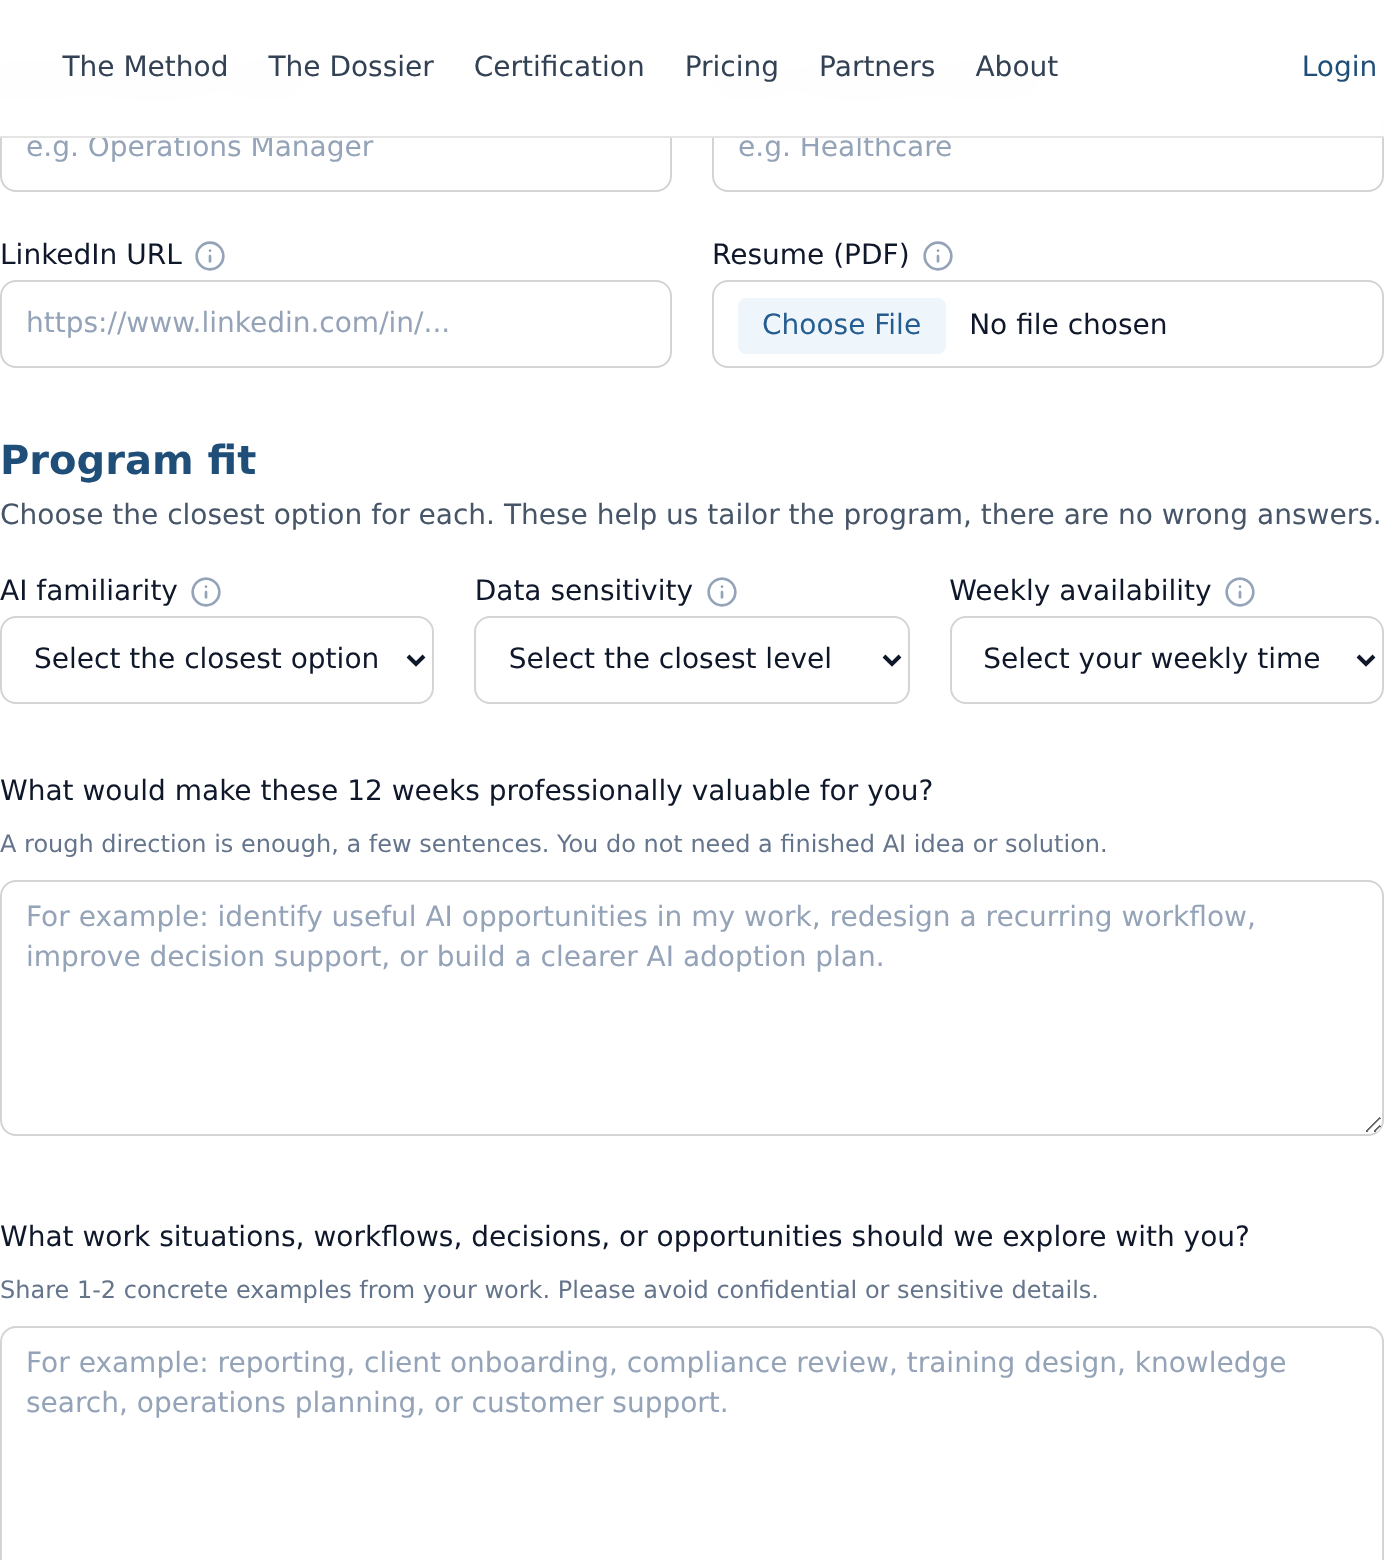
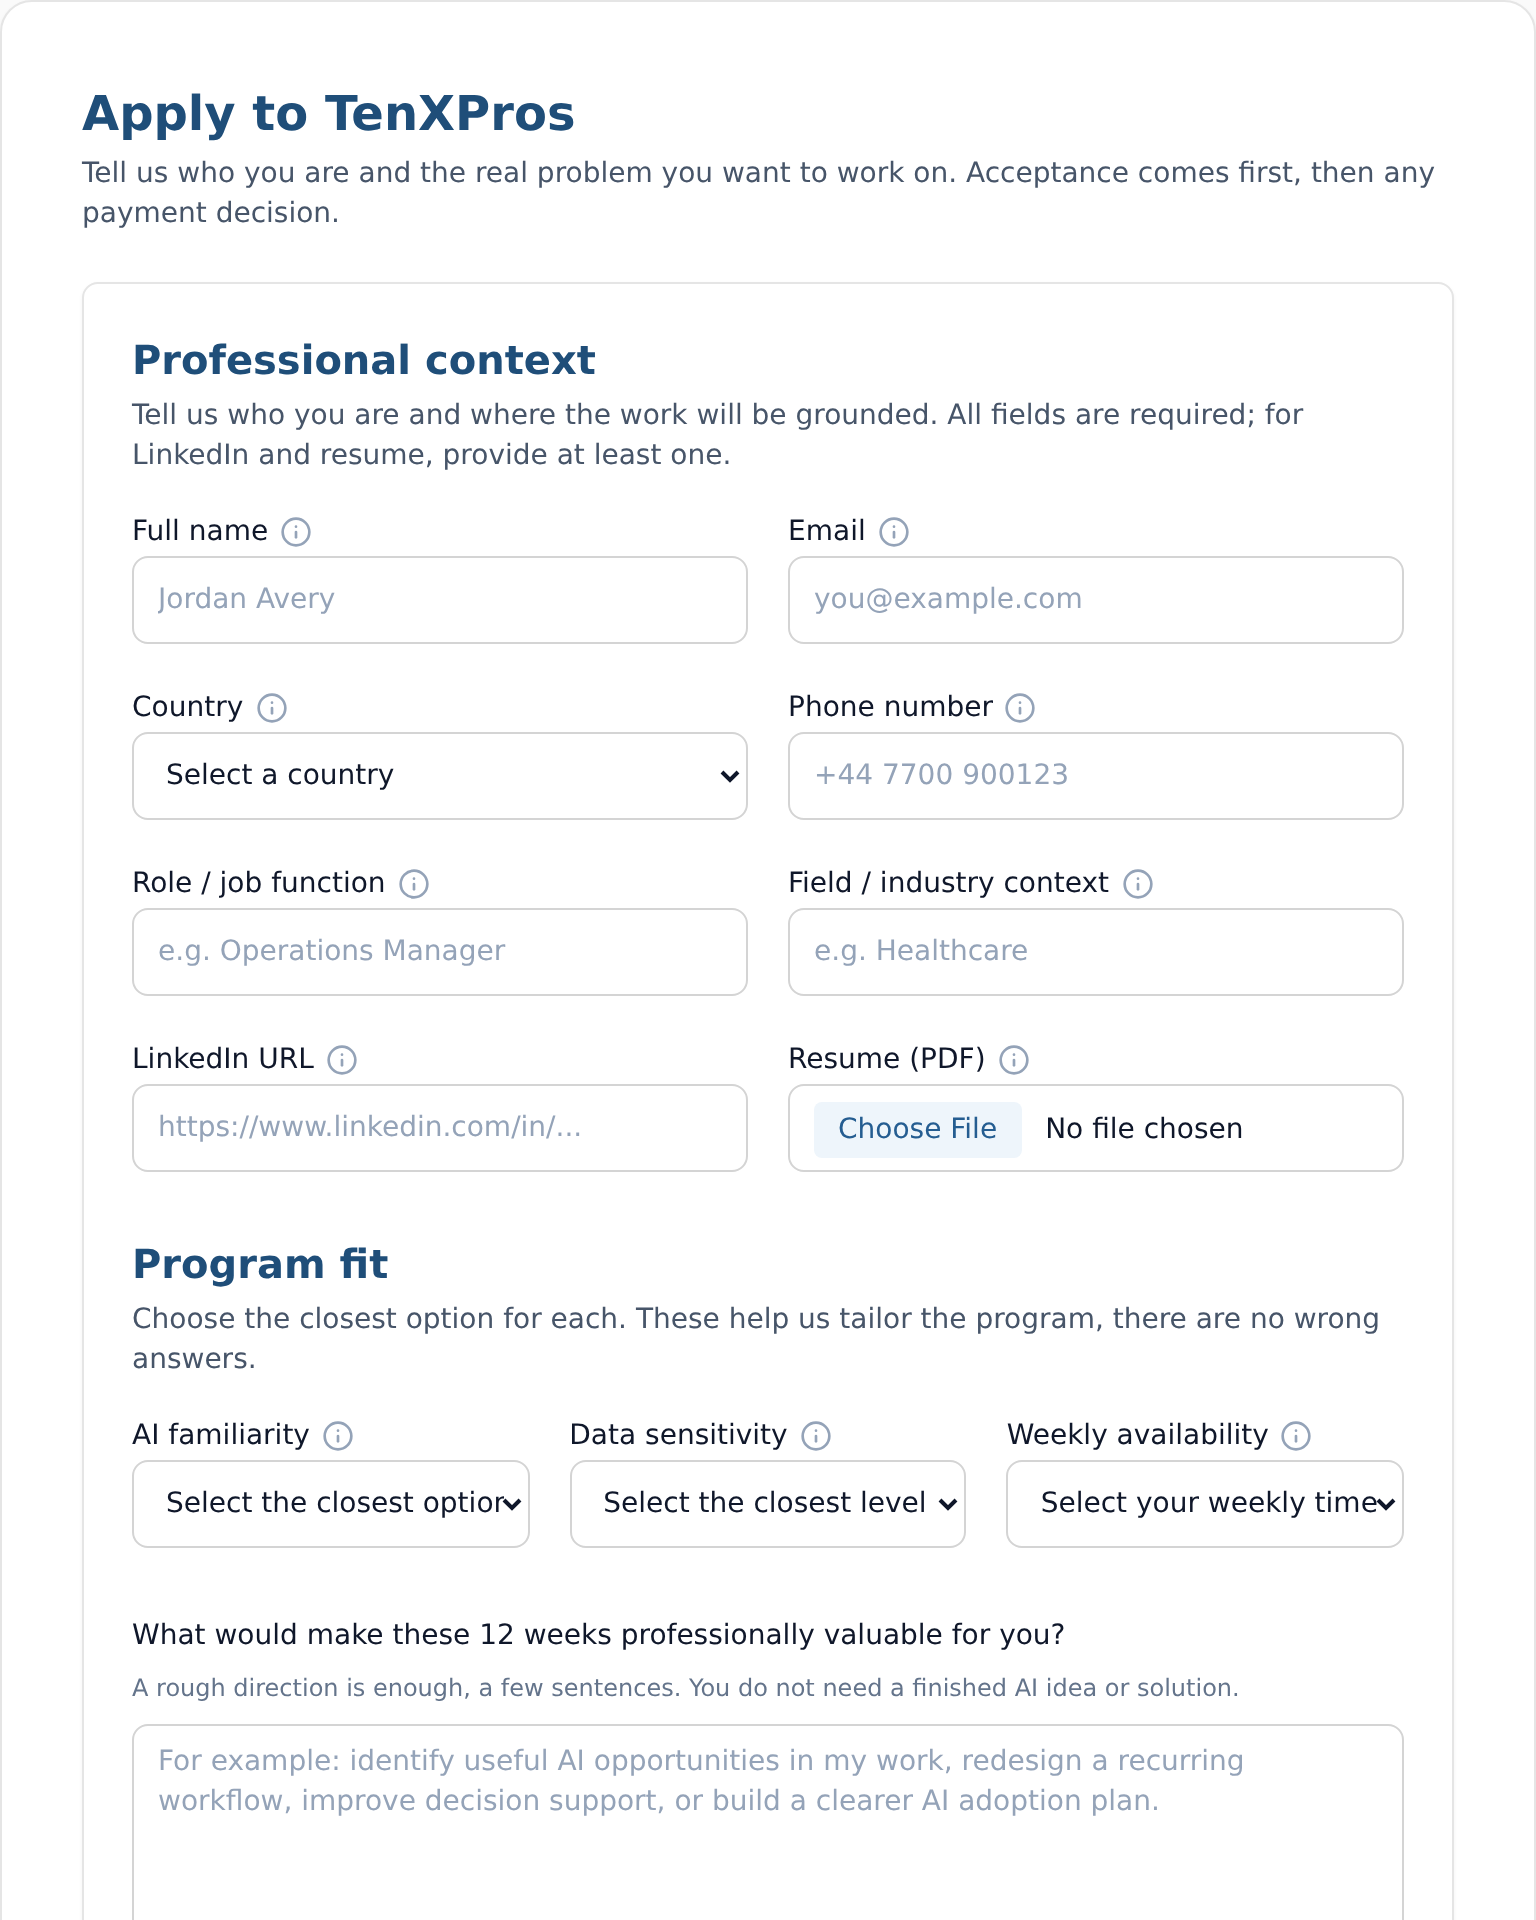
feat(academy): restore Partner Toolkit as a real m14 section; polish screenshots
- Partner Toolkit (outreach templates, objection one-liners, qualification and deal
  checklists) is restored as a proper labeled section in m14 (it had only existed as
  a leaked artifact inside an exam explanation, which was removed; now it is real
  content partners can use), allowlist-safe HTML, no dashes.
- Re-captured three screenshots: the application form now renders in a padded card
  (no edge-to-edge cramping) with realistic sample data; the Field Journey Explorer
  has a clean 'Choose a field' control; the verification screen uses a realistic
  holder name instead of the test value.

diff --git a/app/prisma/seed/academy/m14-customize.ts b/app/prisma/seed/academy/m14-customize.ts
@@ -97,7 +97,7 @@ export const m14: ModuleSeed = {
 <h2>A real scenario</h2>
 <p>Tomas runs operations for a regional logistics firm, a field not in the ten examples. You spend most of the conversation listening: he is already using AI to draft customer updates, but routing decisions feel risky, and some shipment data cannot leave his systems. Together you name the opportunity (faster, clearer customer communication) and the hard boundary (a human owns any routing decision that affects safety or contracts). You map it to the phases, build his field story for the twelve weeks, and leave behind a summary in his words. You never promise a delivery time saved, and because he has a real problem that must pass his leadership's judgment, he is a Pro, and detection, not persuasion, is what closed it.</p>
 
-<h2>How this maps to your exam</h2>
+<h2>Partner Toolkit: ready to use templates</h2><div class="callout callout-info"><p>These are starting points, not scripts to send blindly. Every message you send must still use approved messaging and pass the truth test. Keep the placeholders in square brackets so you personalize each one. None of these contain a price or a promise of results, by design.</p></div><h3>Warm reconnect: a former colleague or past client</h3><blockquote><p><strong>Subject:</strong> A quick thought for you, [first name]</p><p>Hi [first name], it has been a while since [shared context, for example our time at [company] or the [project] work]. I have been close to how experienced professionals in [their field] are moving from just using AI to actually leading its adoption, and you came to mind. If it is useful, I would value a short conversation to share what I am seeing. No pressure either way. How is the next couple of weeks looking for you?</p></blockquote><h3>Introduction through a mutual contact</h3><blockquote><p><strong>Subject:</strong> [mutual contact] suggested we connect</p><p>Hi [first name], [mutual contact] thought it would be worth us talking. I work with experienced professionals in [their field] who want to lead AI adoption in their work, not just use the tools, and [mutual contact] felt that might be relevant to what you are focused on right now. Would a short call in the next week or two be welcome? Happy to work around your schedule.</p></blockquote><h3>Reaching someone in a shared professional circle</h3><blockquote><p>Hi [first name], we are both part of [shared group or community], and I noticed your work on [specific, real detail]. I spend a lot of time on how professionals in [field] build defensible, reviewed AI work in their own domain. If that is something you are thinking about, I would be glad to compare notes over a short call. If not, no problem at all.</p></blockquote><h3>Follow up one, adds value</h3><blockquote><p>Hi [first name], following up on my note. I mentioned I would share an example of how someone in [their field] works through this, so here it is in brief: [one or two sentences from the matching field story, framed as an example, not a promise]. If it is worth a short conversation, I am happy to set one up. If the timing is not right, just let me know and I will leave it there.</p></blockquote><h3>Follow up two, gracious close</h3><blockquote><p>Hi [first name], I do not want to crowd your inbox, so this is my last note for now. If leading AI adoption in [their field] becomes a priority, I am easy to reach and glad to help. Wishing you well either way.</p></blockquote><h3>Guiding a qualified prospect to apply</h3><blockquote><p>It sounds like this could genuinely fit what you are working on. The next step is simple and there is no payment involved yet: you apply and describe your expertise and the real problem you want to work on, and the team reviews it. Acceptance comes first, and only then is there any payment decision. I can point you to the current details and the application whenever you are ready. Would you like me to do that now?</p></blockquote><h3>Objection one liners, honest and short</h3><blockquote><p>Is this just another AI course? No. Most courses teach tools and prompts. This is built around one real problem and a reviewed dossier, so you leave with evidence you can defend, not a completion certificate.</p></blockquote><blockquote><p>Is it accredited? No. It is a private professional certification. Its credibility comes from the reviewed dossier, the public criteria, and the verifiable credential, not from a university stamp.</p></blockquote><blockquote><p>Do I need to code? No. The core requirement is professional judgment in your field, not coding.</p></blockquote><blockquote><p>Will I definitely get certified? No. Certification depends on whether your dossier meets the review standard. The three outcomes are Certified, Strong Draft, and Completed.</p></blockquote><blockquote><p>Can I join as a regulated professional? Yes, as long as you protect confidential and regulated data and use redacted or fictionalized examples unless you have the rights and safeguards to use real data.</p></blockquote><h3>Prospect qualification checklist, run it in your head before you register</h3><ul><li>Does this person have real depth in their field?</li><li>Do they already use AI and feel the gap between using and leading it?</li><li>Do they have one real problem worth solving?</li><li>Can they commit focused hours over twelve weeks?</li><li>Do they want reviewed, defensible work rather than a quick certificate?</li><li>Do they accept that outcomes are earned, not guaranteed?</li></ul><p>If the answer to most of these is yes, they are worth registering. If they are an absolute beginner with no domain, or they want a guarantee, they are not a fit, and the honest move is to say so.</p><h3>Deal registration field checklist, before you submit on the Panel</h3><ul><li>The legal entity or individual</li><li>The country</li><li>The business unit</li><li>The contact</li><li>The offering</li><li>The estimated seats and value</li><li>Your role on this opportunity</li><li>Your concrete route in: a warm contact, a shared circle, or a real reason you can reach them</li></ul><p>Submit only when you can fill each field honestly, and remember it is protected only once the company confirms it.</p><h2>How this maps to your exam</h2>
 <p>The exam checks that you know why customization is safe (the program is fixed and only the translation changes), the five steps in order, that discovery is mostly listening, and that naming the opportunity and the boundary is what makes a pitch credible. Expect questions on the emphasis for each organization type and on recognizing that a pitch needing a false promise means the prospect is not a fit.</p>`,
   exercises: [
     {
